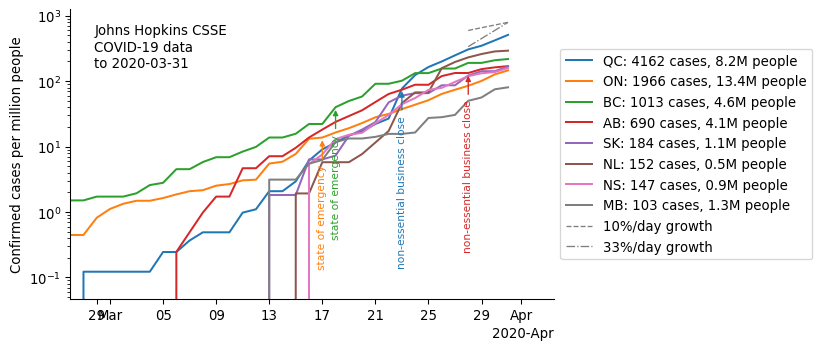
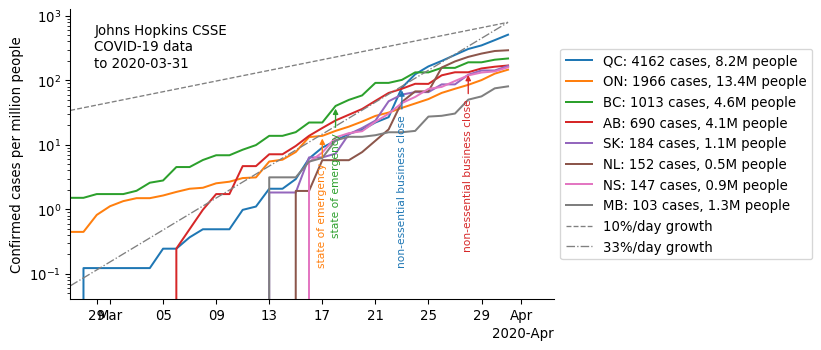
Corrected start date for provinces plot.

diff --git a/visualization/plots.py b/visualization/plots.py
@@ -223,11 +223,12 @@ for province in provinces_df.iloc[:8].index:
 locator = AutoDateLocator()
 ax.xaxis.set_major_locator(locator)
 ax.xaxis.set_major_formatter(ConciseDateFormatter(locator))
-add_rates(ax, [info.date, dates[-1]])
+start_date = (pd.to_datetime(info.date) -
+              pd.to_timedelta(30, unit='day')).date()
+add_rates(ax, [start_date, dates[-1]])
 ax.legend(loc='center left', bbox_to_anchor=(1, 0.5))
 ax.set_ylabel('Confirmed cases per million people')
-ax.set_xlim(((pd.to_datetime(info.date) -
-              pd.to_timedelta(30, unit='day')).date(), ax.get_xlim()[1]))
+ax.set_xlim((start_date, ax.get_xlim()[1]))
 ax.spines['top'].set_visible(False)
 ax.spines['right'].set_visible(False)
 
